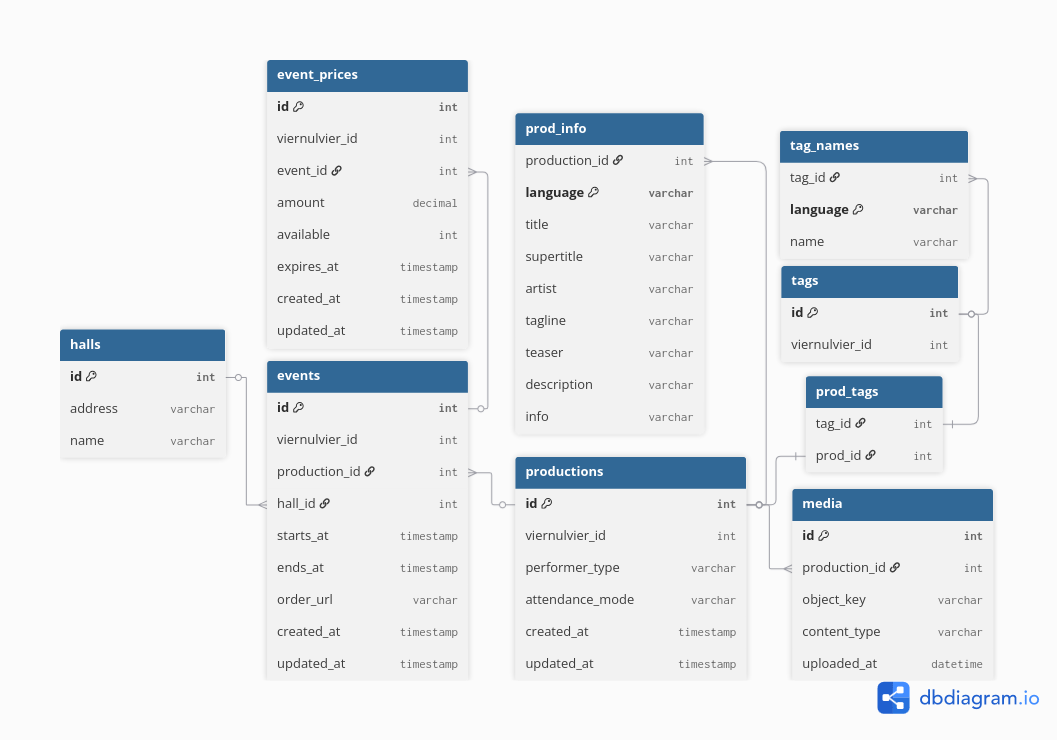
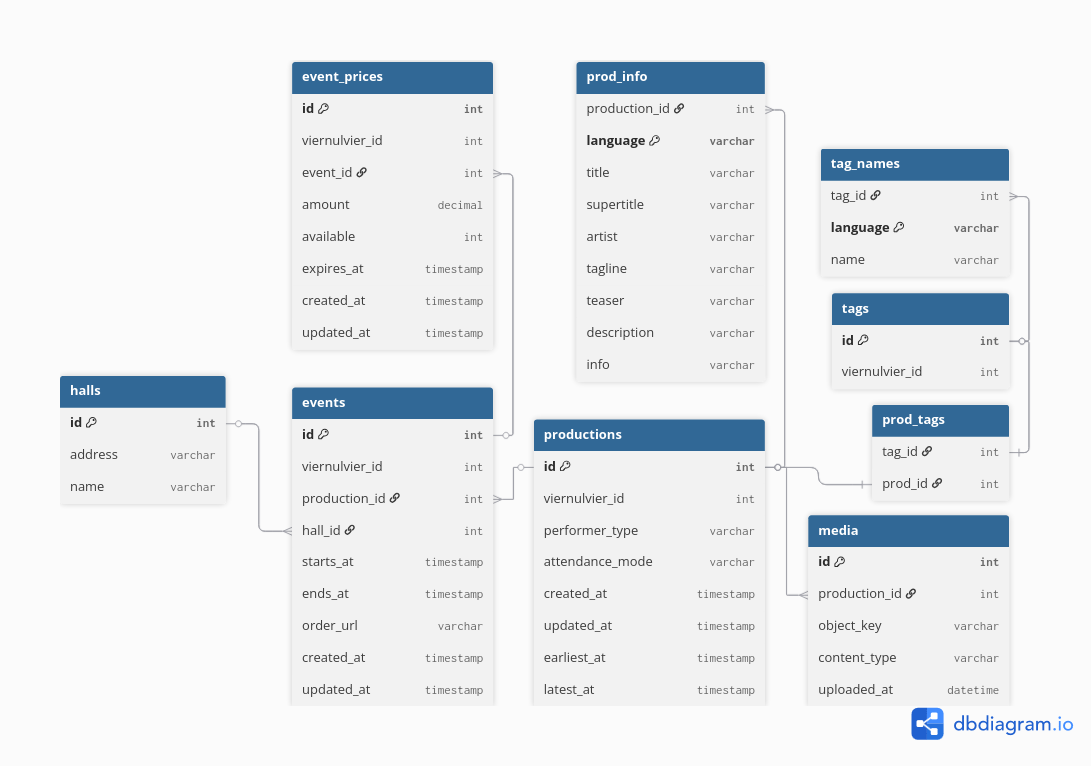
Update ER diagram

diff --git a/docs/domain-model.md b/docs/domain-model.md
@@ -15,6 +15,9 @@ Table productions {
 
     created_at timestamp
     updated_at timestamp
+
+    earliest_at timestamp
+    latest_at timestamp
 }
 
 Table prod_info {
